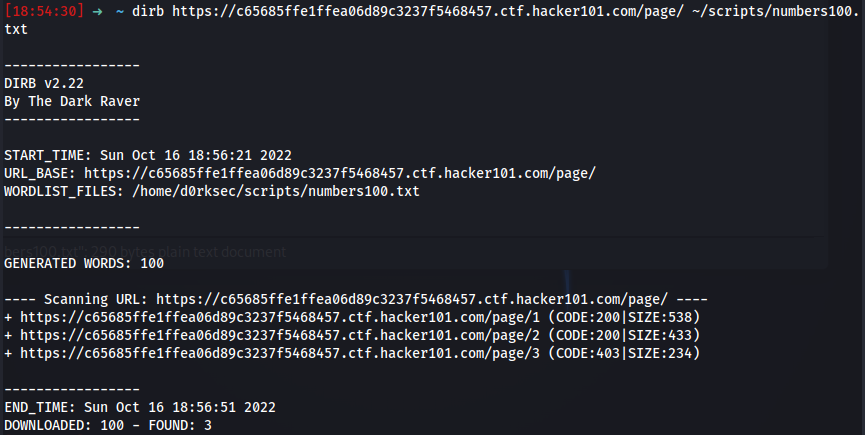
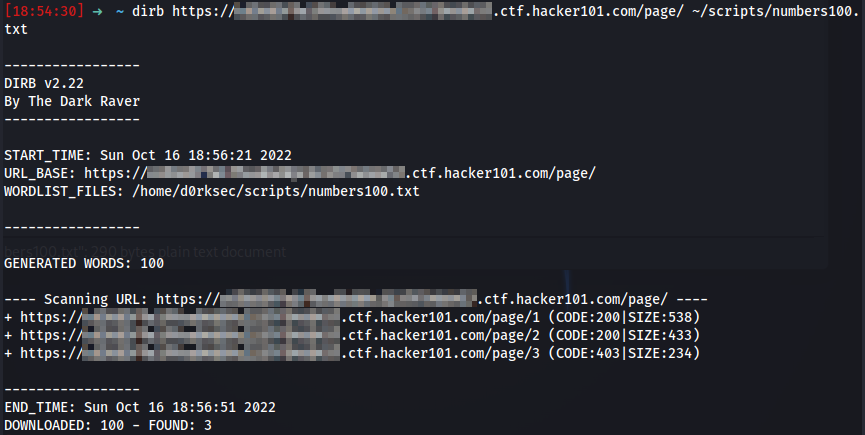
deploy: d0rksec/d0rksec.github.io-dev@13be3a2c0bdf52aeedab951241d5e8d4c2a9b490

Changed region(s): [[0.0936, 0.6575, 0.5618, 0.8368], [0.2497, 0.0, 0.5931, 0.0598], [0.1561, 0.3586, 0.4682, 0.4184]]

diff --git a/writeups/h101/micro-cms_v2/index.html b/writeups/h101/micro-cms_v2/index.html
@@ -1,7 +1,7 @@
 <!doctype html><html lang=en dir=auto><head><meta charset=utf-8><meta http-equiv=x-ua-compatible content="IE=edge"><meta name=viewport content="width=device-width,initial-scale=1,shrink-to-fit=no"><meta name=robots content="index, follow"><title>Hacker101 - Micro CMS_v2 | d0rksec</title><meta name=keywords content="Hacker101,SQL Injection,sqlmap"><meta name=description content="Improved CMS with password authentication"><meta name=author content><link rel=canonical href=https://d0rksec.github.io/writeups/h101/micro-cms_v2/><link crossorigin=anonymous href=/assets/css/stylesheet.aa8a0c4802ee570e352291e58d608e6b99d48ef678aa4be907095a212e60d6e9.css integrity="sha256-qooMSALuVw41IpHljWCOa5nUjvZ4qkvpBwlaIS5g1uk=" rel="preload stylesheet" as=style><script defer crossorigin=anonymous src=/assets/js/highlight.f413e19d0714851f6474e7ee9632408e58ac146fbdbe62747134bea2fa3415e0.js integrity="sha256-9BPhnQcUhR9kdOfuljJAjlisFG+9vmJ0cTS+ovo0FeA=" onload=hljs.initHighlightingOnLoad()></script>
-<link rel=icon href=https://d0rksec.github.io/favicon.ico><link rel=icon type=image/png sizes=16x16 href=https://d0rksec.github.io/favicon-16x16.png><link rel=icon type=image/png sizes=32x32 href=https://d0rksec.github.io/favicon-32x32.png><link rel=apple-touch-icon href=https://d0rksec.github.io/apple-touch-icon.png><link rel=mask-icon href=https://d0rksec.github.io/safari-pinned-tab.svg><meta name=theme-color content="#2e2e33"><meta name=msapplication-TileColor content="#2e2e33"><noscript><style>#theme-toggle,.top-link{display:none}</style></noscript><meta property="og:title" content="Hacker101 - Micro CMS_v2"><meta property="og:description" content="Improved CMS with password authentication"><meta property="og:type" content="article"><meta property="og:url" content="https://d0rksec.github.io/writeups/h101/micro-cms_v2/"><meta property="article:section" content="writeups"><meta property="article:published_time" content="2022-10-16T17:04:39+02:00"><meta property="article:modified_time" content="2022-10-16T17:04:39+02:00"><meta name=twitter:card content="summary"><meta name=twitter:title content="Hacker101 - Micro CMS_v2"><meta name=twitter:description content="Improved CMS with password authentication"><script type=application/ld+json>{"@context":"https://schema.org","@type":"BreadcrumbList","itemListElement":[{"@type":"ListItem","position":1,"name":"Writeups","item":"https://d0rksec.github.io/writeups/"},{"@type":"ListItem","position":2,"name":"Hacker101","item":"https://d0rksec.github.io/writeups/h101/"},{"@type":"ListItem","position":3,"name":"Hacker101 - Micro CMS_v2","item":"https://d0rksec.github.io/writeups/h101/micro-cms_v2/"}]}</script><script type=application/ld+json>{"@context":"https://schema.org","@type":"BlogPosting","headline":"Hacker101 - Micro CMS_v2","name":"Hacker101 - Micro CMS_v2","description":"Improved CMS with password authentication","keywords":["Hacker101","SQL Injection","sqlmap"],"articleBody":"What A CMS with Python backend, prone for SQL injection.\nDifficulty: Moderate\nFlag0 Hint0: Regular users can only see public pages Start with wandering around the site, visiting all available pages to feed site map in Burp.\nAs we can see on Changelog page (/page/1), user authentication has been implemented, so by default, only admins can add or edit pages.\nAs a regular user, we can visit (load without authenticating on /login) the following pages:\n/home /login /page/1 /page/2 Can’t hurt, if we run gobuster and dirb too, right? Only /logout found by both in addition to what we had before.\ngobuster dir -u https://c65685ffe1ffea06d89c3237f5468457.ctf.hacker101.com/ -w /usr/share/wordlists/dirbuster/directory-list-lowercase-2.3-small.txt -z -t 100 Let’s run dirb too.\ndirb https://c65685ffe1ffea06d89c3237f5468457.ctf.hacker101.com/ It made me a bit upset that dirb did not found anything under /page, so I quickly modified my wordlist-generator script (used in Postbook) to create an index list [1-100]. Running dirb with this wordlist on /page, revealed /page/3 which is Forbidden.\ndirb https://c65685ffe1ffea06d89c3237f5468457.ctf.hacker101.com/page/ ~/scripts/numbers100.txt Hint1: Getting admin access might require a more perfect union The hint tells us that the login page is vulnerable for SQL Injection. Starting with a basic payload (') in Username field generated an error message.\nTraceback (most recent call last): File \"./main.py\", line 145, in do_login if cur.execute('SELECT password FROM admins WHERE username=\\'%s\\'' % request.form['username'].replace('%', '%%')) == 0: File \"/usr/local/lib/python2.7/site-packages/MySQLdb/cursors.py\", line 255, in execute self.errorhandler(self, exc, value) File \"/usr/local/lib/python2.7/site-packages/MySQLdb/connections.py\", line 50, in defaulterrorhandler raise errorvalue ProgrammingError: (1064, \"You have an error in your SQL syntax; check the manual that corresponds to your MariaDB server version for the right syntax to use near ';'' at line 1\") Bad practice, if clients can see the error message details due to error reporting is active on a live page. For us, it suggests that we’re facing with a MySQL database server in the backend.\nHere you can see a complete list of payloads to be used against MySQL database.\nFollowing the hint, we should focus on Union Based section of the page. Few documents worth a look before continuing:\nthis gem from PortSwigger, Invicti's SQL Injection Cheat Sheet, Advanced SQL Injection: Union based from VK9 Security, Let’s determine how many columns are being returned from the original query with\n' order by 1;\n' order by 2;\n' order by 3;\nThe first query results an “Unknown user” message, the others end up with error details. We need only one column.\nIf we try with\n' union select null;\n' union select null,null; ' union select null,null,null;\nas Name, we can see, that the first union query throws an “Invalid password”, the others give us the error details.\nLook at the error message again. The query behind the scenes is\nSELECT password FROM admins WHERE username='[username field]' AND password='[password field]'\nOur Union-based payload will replace the second part of the original query, from the username’s closing ', something like this:\nSELECT password FROM admins WHERE username=' [payload]\nAs we need only one column, let’s set a fix value for password that we will provide in the password field (no username needed):\nSELECT password FROM admins WHERE username=’ ' UNION SELECT '123' AS password#\nUsername: ' UNION SELECT '123' AS password# #you don’t need uppercase letters..\nPassword: 123\nHere you can see a more detailed answer on why/how above query works.\nIf you catch the request in Burp, you’ll see this:\nusername=%27+union+select+%27123%27+as+password%23\u0026password=123 Fantastic, we’re in:\nHint2: Knowing the password is cool, but there are other approaches that might be easier After logon, an additional page is added to the links: /page/3, which was forbidden before.\nThe page reveals the first FLAG.\nAlternatively, we can also reveal this FLAG with sqlmap, when fetching pages table:\nsqlmap -r ~/h101/micro-cms_v2/login.txt -D level2 -T pages --dump --random-agent --threads 10 See more details for sqlmap in Flag2.\nFlag1 Hint0: What actions could you perform as a regular user on the last level, which you can’t now? We were able to create and edit pages. On this level, we have to logon first.\nHint1: Just because request fails with one method doesn’t mean it will fail with a different method When it comes to changing request method, our usual friends will be Burp and cURL.\nWith Burp, we can intercept the request and replace GET with POST.\ncURL’s default request method is (also) GET. We can change request method to POST with -X POST.\nHint2: Different requests often have different required authorization Burp (intercept the request):\ncURL:\nChange the request method from GET to POST.\nBurp:\nAnother FLAG.\ncURL:\nFlag2 Hint0: Credentials are secret, flags are secret. Coincidence? We already know that the login fields are vulnerable for injection, but an SQLi challenge wouldn’t be complete without using sqlmap - also, there is much to learn even from it’s output.\nFirst, I’ve saved the GET request with Burp Intercept as login.txt (username=user and password=pass).\nLet’s see how sqlmap is listing databases.\nsqlmap -r ~/h101/micro-cms_v2/login.txt --dbs --random-agent --threads 10 We have the database name (level2), now get the tables with:\nsqlmap -r ~/h101/micro-cms_v2/login.txt -D level2 --tables --random-agent --threads 10 Let’s dump admins table.\nsqlmap -r ~/h101/micro-cms_v2/login.txt -D level2 -T admins --dump --random-agent --threads 10 Using the credentials above for login, we see the third FLAG.\nTakeaway(s) Use “Incorrect username and/or password” instead revealing which of the two fields has invalid value Try changing request method between GET and POST Don’t rely on automated tools, understand what they are doing Experience with different tools for the same task ","wordCount":"908","inLanguage":"en","datePublished":"2022-10-16T17:04:39+02:00","dateModified":"2022-10-16T17:04:39+02:00","mainEntityOfPage":{"@type":"WebPage","@id":"https://d0rksec.github.io/writeups/h101/micro-cms_v2/"},"publisher":{"@type":"Organization","name":"d0rksec","logo":{"@type":"ImageObject","url":"https://d0rksec.github.io/favicon.ico"}}}</script></head><body class=dark id=top><script>localStorage.getItem("pref-theme")==="light"&&document.body.classList.remove("dark")</script><header class=header><nav class=nav><div class=logo><a href=https://d0rksec.github.io/ accesskey=h title="d0rksec (Alt + H)">d0rksec</a><div class=logo-switches><button id=theme-toggle accesskey=t title="(Alt + T)"><svg id="moon" xmlns="http://www.w3.org/2000/svg" width="24" height="24" viewBox="0 0 24 24" fill="none" stroke="currentcolor" stroke-width="2" stroke-linecap="round" stroke-linejoin="round"><path d="M21 12.79A9 9 0 1111.21 3 7 7 0 0021 12.79z"/></svg><svg id="sun" xmlns="http://www.w3.org/2000/svg" width="24" height="24" viewBox="0 0 24 24" fill="none" stroke="currentcolor" stroke-width="2" stroke-linecap="round" stroke-linejoin="round"><circle cx="12" cy="12" r="5"/><line x1="12" y1="1" x2="12" y2="3"/><line x1="12" y1="21" x2="12" y2="23"/><line x1="4.22" y1="4.22" x2="5.64" y2="5.64"/><line x1="18.36" y1="18.36" x2="19.78" y2="19.78"/><line x1="1" y1="12" x2="3" y2="12"/><line x1="21" y1="12" x2="23" y2="12"/><line x1="4.22" y1="19.78" x2="5.64" y2="18.36"/><line x1="18.36" y1="5.64" x2="19.78" y2="4.22"/></svg></button></div></div><ul id=menu><li><a href=https://d0rksec.github.io/categories/ title=categories><span>categories</span></a></li><li><a href=https://d0rksec.github.io/tags/ title=tags><span>tags</span></a></li><li><a href=https://d0rksec.github.io/search/ title="search (Alt + /)" accesskey=/><span>search</span></a></li><li><a href=https://d0rksec.github.io/archives/ title=archives><span>archives</span></a></li><li><a href=https://d0rksec.github.io/about title=about><span>about</span></a></li></ul></nav></header><main class=main><article class=post-single><header class=post-header><div class=breadcrumbs><a href=https://d0rksec.github.io/>Home</a>&nbsp;»&nbsp;<a href=https://d0rksec.github.io/writeups/>Writeups</a>&nbsp;»&nbsp;<a href=https://d0rksec.github.io/writeups/h101/>Hacker101</a></div><h1 class=post-title>Hacker101 - Micro CMS_v2</h1><div class=post-meta><span title='2022-10-16 17:04:39 +0200 +0200'>October 16, 2022</span>&nbsp;·&nbsp;5 min</div></header><div class=toc><details><summary accesskey=c title="(Alt + C)"><span class=details>On this page</span></summary><div class=inner><ul><li><a href=#what aria-label=What>What</a></li><li><a href=#flag0 aria-label=Flag0>Flag0</a><ul><li><a href=#hint0-regular-users-can-only-see-public-pages aria-label="Hint0: Regular users can only see public pages">Hint0: Regular users can only see public pages</a></li><li><a href=#hint1-getting-admin-access-might-require-a-more-perfect-union aria-label="Hint1: Getting admin access might require a more perfect union">Hint1: Getting admin access might require a more perfect union</a></li><li><a href=#hint2-knowing-the-password-is-cool-but-there-are-other-approaches-that-might-be-easier aria-label="Hint2: Knowing the password is cool, but there are other approaches that might be easier">Hint2: Knowing the password is cool, but there are other approaches that might be easier</a></li></ul></li><li><a href=#flag1 aria-label=Flag1>Flag1</a><ul><li><a href=#hint0-what-actions-could-you-perform-as-a-regular-user-on-the-last-level-which-you-cant-now aria-label="Hint0: What actions could you perform as a regular user on the last level, which you can&amp;rsquo;t now?">Hint0: What actions could you perform as a regular user on the last level, which you can&rsquo;t now?</a></li><li><a href=#hint1-just-because-request-fails-with-one-method-doesnt-mean-it-will-fail-with-a-different-method aria-label="Hint1: Just because request fails with one method doesn&amp;rsquo;t mean it will fail with a different method">Hint1: Just because request fails with one method doesn&rsquo;t mean it will fail with a different method</a></li><li><a href=#hint2-different-requests-often-have-different-required-authorization aria-label="Hint2: Different requests often have different required authorization">Hint2: Different requests often have different required authorization</a></li></ul></li><li><a href=#flag2 aria-label=Flag2>Flag2</a><ul><li><a href=#hint0-credentials-are-secret-flags-are-secret-coincidence aria-label="Hint0: Credentials are secret, flags are secret. Coincidence?">Hint0: Credentials are secret, flags are secret. Coincidence?</a></li></ul></li><li><a href=#takeaways aria-label=Takeaway(s)>Takeaway(s)</a></li></ul></div></details></div><div class=post-content><h3 id=what>What<a hidden class=anchor aria-hidden=true href=#what>#</a></h3><p>A CMS with Python backend, prone for SQL injection.</p><p><img loading=lazy src=./Micro-CMS_v2-home.png alt="Miro-CMS v2 Home"></p><p>Difficulty: Moderate</p><h3 id=flag0>Flag0<a hidden class=anchor aria-hidden=true href=#flag0>#</a></h3><h4 id=hint0-regular-users-can-only-see-public-pages>Hint0: Regular users can only see public pages<a hidden class=anchor aria-hidden=true href=#hint0-regular-users-can-only-see-public-pages>#</a></h4><p>Start with wandering around the site, visiting all available pages to feed site map in Burp.</p><p>As we can see on Changelog page (<code>/page/1</code>), user authentication has been implemented, so by default, only admins can add or edit pages.</p><p>As a regular user, we can visit (load without authenticating on <code>/login</code>) the following pages:</p><p><img loading=lazy src=./flag0/Micro-CMS_v2-F0-H0-1-sitemap-regular-user.png alt="sitemap for regular user"></p><ul><li><code>/home</code></li><li><code>/login</code></li><li><code>/page/1</code></li><li><code>/page/2</code></li></ul><p>Can&rsquo;t hurt, if we run gobuster and dirb too, right? Only <code>/logout</code> found by both in addition to what we had before.</p><div class=highlight><pre tabindex=0 style=color:#f8f8f2;background-color:#272822;-moz-tab-size:4;-o-tab-size:4;tab-size:4><code class=language-bash data-lang=bash><span style=display:flex><span>gobuster dir -u https://c65685ffe1ffea06d89c3237f5468457.ctf.hacker101.com/ -w /usr/share/wordlists/dirbuster/directory-list-lowercase-2.3-small.txt -z -t <span style=color:#ae81ff>100</span>
-</span></span></code></pre></div><p><img loading=lazy src=./flag0/Micro-CMS_v2-F0-H0-2-gobuster.png alt=gobuster></p><p>Let&rsquo;s run dirb too.</p><div class=highlight><pre tabindex=0 style=color:#f8f8f2;background-color:#272822;-moz-tab-size:4;-o-tab-size:4;tab-size:4><code class=language-bash data-lang=bash><span style=display:flex><span>dirb https://c65685ffe1ffea06d89c3237f5468457.ctf.hacker101.com/
-</span></span></code></pre></div><p><img loading=lazy src=./flag0/Micro-CMS_v2-F0-H0-3-dirb.png alt=dirb></p><p>It made me a bit upset that dirb did not found anything under <code>/page</code>, so I quickly modified my wordlist-generator script (used in <a href=/writeups/h101/postbook/#hint0-189--5>Postbook</a>) to create an index list [1-100]. Running dirb with this wordlist on <code>/page</code>, revealed <code>/page/3</code> which is Forbidden.</p><div class=highlight><pre tabindex=0 style=color:#f8f8f2;background-color:#272822;-moz-tab-size:4;-o-tab-size:4;tab-size:4><code class=language-bash data-lang=bash><span style=display:flex><span>dirb https://c65685ffe1ffea06d89c3237f5468457.ctf.hacker101.com/page/ ~/scripts/numbers100.txt
+<link rel=icon href=https://d0rksec.github.io/favicon.ico><link rel=icon type=image/png sizes=16x16 href=https://d0rksec.github.io/favicon-16x16.png><link rel=icon type=image/png sizes=32x32 href=https://d0rksec.github.io/favicon-32x32.png><link rel=apple-touch-icon href=https://d0rksec.github.io/apple-touch-icon.png><link rel=mask-icon href=https://d0rksec.github.io/safari-pinned-tab.svg><meta name=theme-color content="#2e2e33"><meta name=msapplication-TileColor content="#2e2e33"><noscript><style>#theme-toggle,.top-link{display:none}</style></noscript><meta property="og:title" content="Hacker101 - Micro CMS_v2"><meta property="og:description" content="Improved CMS with password authentication"><meta property="og:type" content="article"><meta property="og:url" content="https://d0rksec.github.io/writeups/h101/micro-cms_v2/"><meta property="article:section" content="writeups"><meta property="article:published_time" content="2022-10-16T17:04:39+02:00"><meta property="article:modified_time" content="2022-10-16T17:04:39+02:00"><meta name=twitter:card content="summary"><meta name=twitter:title content="Hacker101 - Micro CMS_v2"><meta name=twitter:description content="Improved CMS with password authentication"><script type=application/ld+json>{"@context":"https://schema.org","@type":"BreadcrumbList","itemListElement":[{"@type":"ListItem","position":1,"name":"Writeups","item":"https://d0rksec.github.io/writeups/"},{"@type":"ListItem","position":2,"name":"Hacker101","item":"https://d0rksec.github.io/writeups/h101/"},{"@type":"ListItem","position":3,"name":"Hacker101 - Micro CMS_v2","item":"https://d0rksec.github.io/writeups/h101/micro-cms_v2/"}]}</script><script type=application/ld+json>{"@context":"https://schema.org","@type":"BlogPosting","headline":"Hacker101 - Micro CMS_v2","name":"Hacker101 - Micro CMS_v2","description":"Improved CMS with password authentication","keywords":["Hacker101","SQL Injection","sqlmap"],"articleBody":"What A CMS with Python backend, prone for SQL injection.\nDifficulty: Moderate\nFlag0 Hint0: Regular users can only see public pages Start with wandering around the site, visiting all available pages to feed site map in Burp.\nAs we can see on Changelog page (/page/1), user authentication has been implemented, so by default, only admins can add or edit pages.\nAs a regular user, we can visit (load without authenticating on /login) the following pages:\n/home /login /page/1 /page/2 Can’t hurt, if we run gobuster and dirb too, right? Only /logout found by both in addition to what we had before.\ngobuster dir -u https://IAMSOSORRY.ctf.hacker101.com/ -w /usr/share/wordlists/dirbuster/directory-list-lowercase-2.3-small.txt -z -t 100 Let’s run dirb too.\ndirb https://IAMSOSORRY.ctf.hacker101.com/ It made me a bit upset that dirb did not found anything under /page, so I quickly modified my wordlist-generator script (used in Postbook) to create an index list [1-100]. Running dirb with this wordlist on /page, revealed /page/3 which is Forbidden.\ndirb https://IAMSOSORRY.ctf.hacker101.com/page/ ~/scripts/numbers100.txt Hint1: Getting admin access might require a more perfect union The hint tells us that the login page is vulnerable for SQL Injection. Starting with a basic payload (') in Username field generated an error message.\nTraceback (most recent call last): File \"./main.py\", line 145, in do_login if cur.execute('SELECT password FROM admins WHERE username=\\'%s\\'' % request.form['username'].replace('%', '%%')) == 0: File \"/usr/local/lib/python2.7/site-packages/MySQLdb/cursors.py\", line 255, in execute self.errorhandler(self, exc, value) File \"/usr/local/lib/python2.7/site-packages/MySQLdb/connections.py\", line 50, in defaulterrorhandler raise errorvalue ProgrammingError: (1064, \"You have an error in your SQL syntax; check the manual that corresponds to your MariaDB server version for the right syntax to use near ';'' at line 1\") Bad practice, if clients can see the error message details due to error reporting is active on a live page. For us, it suggests that we’re facing with a MySQL database server in the backend.\nHere you can see a complete list of payloads to be used against MySQL database.\nFollowing the hint, we should focus on Union Based section of the page. Few documents worth a look before continuing:\nthis gem from PortSwigger, Invicti's SQL Injection Cheat Sheet, Advanced SQL Injection: Union based from VK9 Security, Let’s determine how many columns are being returned from the original query with\n' order by 1;\n' order by 2;\n' order by 3;\nThe first query results an “Unknown user” message, the others end up with error details. We need only one column.\nIf we try with\n' union select null;\n' union select null,null; ' union select null,null,null;\nas Name, we can see, that the first union query throws an “Invalid password”, the others give us the error details.\nLook at the error message again. The query behind the scenes is\nSELECT password FROM admins WHERE username='[username field]' AND password='[password field]'\nOur Union-based payload will replace the second part of the original query, from the username’s closing ', something like this:\nSELECT password FROM admins WHERE username=' [payload]\nAs we need only one column, let’s set a fix value for password that we will provide in the password field (no username needed):\nSELECT password FROM admins WHERE username=’ ' UNION SELECT '123' AS password#\nUsername: ' UNION SELECT '123' AS password# #you don’t need uppercase letters..\nPassword: 123\nHere you can see a more detailed answer on why/how above query works.\nIf you catch the request in Burp, you’ll see this:\nusername=%27+union+select+%27123%27+as+password%23\u0026password=123 Fantastic, we’re in:\nHint2: Knowing the password is cool, but there are other approaches that might be easier After logon, an additional page is added to the links: /page/3, which was forbidden before.\nThe page reveals the first FLAG.\nAlternatively, we can also reveal this FLAG with sqlmap, when fetching pages table:\nsqlmap -r ~/h101/micro-cms_v2/login.txt -D level2 -T pages --dump --random-agent --threads 10 See more details for sqlmap in Flag2.\nFlag1 Hint0: What actions could you perform as a regular user on the last level, which you can’t now? We were able to create and edit pages. On this level, we have to logon first.\nHint1: Just because request fails with one method doesn’t mean it will fail with a different method When it comes to changing request method, our usual friends will be Burp and cURL.\nWith Burp, we can intercept the request and replace GET with POST.\ncURL’s default request method is (also) GET. We can change request method to POST with -X POST.\nHint2: Different requests often have different required authorization Burp (intercept the request):\ncURL:\nChange the request method from GET to POST.\nBurp:\nAnother FLAG.\ncURL:\nFlag2 Hint0: Credentials are secret, flags are secret. Coincidence? We already know that the login fields are vulnerable for injection, but an SQLi challenge wouldn’t be complete without using sqlmap - also, there is much to learn even from it’s output.\nFirst, I’ve saved the GET request with Burp Intercept as login.txt (username=user and password=pass).\nLet’s see how sqlmap is listing databases.\nsqlmap -r ~/h101/micro-cms_v2/login.txt --dbs --random-agent --threads 10 We have the database name (level2), now get the tables with:\nsqlmap -r ~/h101/micro-cms_v2/login.txt -D level2 --tables --random-agent --threads 10 Let’s dump admins table.\nsqlmap -r ~/h101/micro-cms_v2/login.txt -D level2 -T admins --dump --random-agent --threads 10 Using the credentials above for login, we see the third FLAG.\nTakeaway(s) Use “Incorrect username and/or password” instead revealing which of the two fields has invalid value Try changing request method between GET and POST Don’t rely on automated tools, understand what they are doing Experience with different tools for the same task ","wordCount":"908","inLanguage":"en","datePublished":"2022-10-16T17:04:39+02:00","dateModified":"2022-10-16T17:04:39+02:00","mainEntityOfPage":{"@type":"WebPage","@id":"https://d0rksec.github.io/writeups/h101/micro-cms_v2/"},"publisher":{"@type":"Organization","name":"d0rksec","logo":{"@type":"ImageObject","url":"https://d0rksec.github.io/favicon.ico"}}}</script></head><body class=dark id=top><script>localStorage.getItem("pref-theme")==="light"&&document.body.classList.remove("dark")</script><header class=header><nav class=nav><div class=logo><a href=https://d0rksec.github.io/ accesskey=h title="d0rksec (Alt + H)">d0rksec</a><div class=logo-switches><button id=theme-toggle accesskey=t title="(Alt + T)"><svg id="moon" xmlns="http://www.w3.org/2000/svg" width="24" height="24" viewBox="0 0 24 24" fill="none" stroke="currentcolor" stroke-width="2" stroke-linecap="round" stroke-linejoin="round"><path d="M21 12.79A9 9 0 1111.21 3 7 7 0 0021 12.79z"/></svg><svg id="sun" xmlns="http://www.w3.org/2000/svg" width="24" height="24" viewBox="0 0 24 24" fill="none" stroke="currentcolor" stroke-width="2" stroke-linecap="round" stroke-linejoin="round"><circle cx="12" cy="12" r="5"/><line x1="12" y1="1" x2="12" y2="3"/><line x1="12" y1="21" x2="12" y2="23"/><line x1="4.22" y1="4.22" x2="5.64" y2="5.64"/><line x1="18.36" y1="18.36" x2="19.78" y2="19.78"/><line x1="1" y1="12" x2="3" y2="12"/><line x1="21" y1="12" x2="23" y2="12"/><line x1="4.22" y1="19.78" x2="5.64" y2="18.36"/><line x1="18.36" y1="5.64" x2="19.78" y2="4.22"/></svg></button></div></div><ul id=menu><li><a href=https://d0rksec.github.io/categories/ title=categories><span>categories</span></a></li><li><a href=https://d0rksec.github.io/tags/ title=tags><span>tags</span></a></li><li><a href=https://d0rksec.github.io/search/ title="search (Alt + /)" accesskey=/><span>search</span></a></li><li><a href=https://d0rksec.github.io/archives/ title=archives><span>archives</span></a></li><li><a href=https://d0rksec.github.io/about title=about><span>about</span></a></li></ul></nav></header><main class=main><article class=post-single><header class=post-header><div class=breadcrumbs><a href=https://d0rksec.github.io/>Home</a>&nbsp;»&nbsp;<a href=https://d0rksec.github.io/writeups/>Writeups</a>&nbsp;»&nbsp;<a href=https://d0rksec.github.io/writeups/h101/>Hacker101</a></div><h1 class=post-title>Hacker101 - Micro CMS_v2</h1><div class=post-meta><span title='2022-10-16 17:04:39 +0200 +0200'>October 16, 2022</span>&nbsp;·&nbsp;5 min</div></header><div class=toc><details><summary accesskey=c title="(Alt + C)"><span class=details>On this page</span></summary><div class=inner><ul><li><a href=#what aria-label=What>What</a></li><li><a href=#flag0 aria-label=Flag0>Flag0</a><ul><li><a href=#hint0-regular-users-can-only-see-public-pages aria-label="Hint0: Regular users can only see public pages">Hint0: Regular users can only see public pages</a></li><li><a href=#hint1-getting-admin-access-might-require-a-more-perfect-union aria-label="Hint1: Getting admin access might require a more perfect union">Hint1: Getting admin access might require a more perfect union</a></li><li><a href=#hint2-knowing-the-password-is-cool-but-there-are-other-approaches-that-might-be-easier aria-label="Hint2: Knowing the password is cool, but there are other approaches that might be easier">Hint2: Knowing the password is cool, but there are other approaches that might be easier</a></li></ul></li><li><a href=#flag1 aria-label=Flag1>Flag1</a><ul><li><a href=#hint0-what-actions-could-you-perform-as-a-regular-user-on-the-last-level-which-you-cant-now aria-label="Hint0: What actions could you perform as a regular user on the last level, which you can&amp;rsquo;t now?">Hint0: What actions could you perform as a regular user on the last level, which you can&rsquo;t now?</a></li><li><a href=#hint1-just-because-request-fails-with-one-method-doesnt-mean-it-will-fail-with-a-different-method aria-label="Hint1: Just because request fails with one method doesn&amp;rsquo;t mean it will fail with a different method">Hint1: Just because request fails with one method doesn&rsquo;t mean it will fail with a different method</a></li><li><a href=#hint2-different-requests-often-have-different-required-authorization aria-label="Hint2: Different requests often have different required authorization">Hint2: Different requests often have different required authorization</a></li></ul></li><li><a href=#flag2 aria-label=Flag2>Flag2</a><ul><li><a href=#hint0-credentials-are-secret-flags-are-secret-coincidence aria-label="Hint0: Credentials are secret, flags are secret. Coincidence?">Hint0: Credentials are secret, flags are secret. Coincidence?</a></li></ul></li><li><a href=#takeaways aria-label=Takeaway(s)>Takeaway(s)</a></li></ul></div></details></div><div class=post-content><h3 id=what>What<a hidden class=anchor aria-hidden=true href=#what>#</a></h3><p>A CMS with Python backend, prone for SQL injection.</p><p><img loading=lazy src=./Micro-CMS_v2-home.png alt="Miro-CMS v2 Home"></p><p>Difficulty: Moderate</p><h3 id=flag0>Flag0<a hidden class=anchor aria-hidden=true href=#flag0>#</a></h3><h4 id=hint0-regular-users-can-only-see-public-pages>Hint0: Regular users can only see public pages<a hidden class=anchor aria-hidden=true href=#hint0-regular-users-can-only-see-public-pages>#</a></h4><p>Start with wandering around the site, visiting all available pages to feed site map in Burp.</p><p>As we can see on Changelog page (<code>/page/1</code>), user authentication has been implemented, so by default, only admins can add or edit pages.</p><p>As a regular user, we can visit (load without authenticating on <code>/login</code>) the following pages:</p><p><img loading=lazy src=./flag0/Micro-CMS_v2-F0-H0-1-sitemap-regular-user.png alt="sitemap for regular user"></p><ul><li><code>/home</code></li><li><code>/login</code></li><li><code>/page/1</code></li><li><code>/page/2</code></li></ul><p>Can&rsquo;t hurt, if we run gobuster and dirb too, right? Only <code>/logout</code> found by both in addition to what we had before.</p><div class=highlight><pre tabindex=0 style=color:#f8f8f2;background-color:#272822;-moz-tab-size:4;-o-tab-size:4;tab-size:4><code class=language-bash data-lang=bash><span style=display:flex><span>gobuster dir -u https://IAMSOSORRY.ctf.hacker101.com/ -w /usr/share/wordlists/dirbuster/directory-list-lowercase-2.3-small.txt -z -t <span style=color:#ae81ff>100</span>
+</span></span></code></pre></div><p><img loading=lazy src=./flag0/Micro-CMS_v2-F0-H0-2-gobuster.png alt=gobuster></p><p>Let&rsquo;s run dirb too.</p><div class=highlight><pre tabindex=0 style=color:#f8f8f2;background-color:#272822;-moz-tab-size:4;-o-tab-size:4;tab-size:4><code class=language-bash data-lang=bash><span style=display:flex><span>dirb https://IAMSOSORRY.ctf.hacker101.com/
+</span></span></code></pre></div><p><img loading=lazy src=./flag0/Micro-CMS_v2-F0-H0-3-dirb.png alt=dirb></p><p>It made me a bit upset that dirb did not found anything under <code>/page</code>, so I quickly modified my wordlist-generator script (used in <a href=/writeups/h101/postbook/#hint0-189--5>Postbook</a>) to create an index list [1-100]. Running dirb with this wordlist on <code>/page</code>, revealed <code>/page/3</code> which is Forbidden.</p><div class=highlight><pre tabindex=0 style=color:#f8f8f2;background-color:#272822;-moz-tab-size:4;-o-tab-size:4;tab-size:4><code class=language-bash data-lang=bash><span style=display:flex><span>dirb https://IAMSOSORRY.ctf.hacker101.com/page/ ~/scripts/numbers100.txt
 </span></span></code></pre></div><p><img loading=lazy src=./flag0/Micro-CMS_v2-F0-H0-4-dirb-with-wordlist.png alt="dirb with wordlist"></p><p><img loading=lazy src=./flag0/Micro-CMS_v2-F0-H0-5-page3-forbidden.png alt="/page/3 forbidden"></p><h4 id=hint1-getting-admin-access-might-require-a-more-perfect-union>Hint1: Getting admin access might require a more perfect union<a hidden class=anchor aria-hidden=true href=#hint1-getting-admin-access-might-require-a-more-perfect-union>#</a></h4><p>The hint tells us that the login page is vulnerable for SQL Injection. Starting with a basic payload (<code>'</code>) in Username field generated an error message.</p><div class=highlight><pre tabindex=0 style=color:#f8f8f2;background-color:#272822;-moz-tab-size:4;-o-tab-size:4;tab-size:4><code class=language-python data-lang=python><span style=display:flex><span>Traceback (most recent call last):
 </span></span><span style=display:flex><span>  File <span style=color:#e6db74>&#34;./main.py&#34;</span>, line <span style=color:#ae81ff>145</span>, <span style=color:#f92672>in</span> do_login
 </span></span><span style=display:flex><span>    <span style=color:#66d9ef>if</span> cur<span style=color:#f92672>.</span>execute(<span style=color:#e6db74>&#39;SELECT password FROM admins WHERE username=</span><span style=color:#ae81ff>\&#39;</span><span style=color:#e6db74>%s</span><span style=color:#ae81ff>\&#39;</span><span style=color:#e6db74>&#39;</span> <span style=color:#f92672>%</span> request<span style=color:#f92672>.</span>form[<span style=color:#e6db74>&#39;username&#39;</span>]<span style=color:#f92672>.</span>replace(<span style=color:#e6db74>&#39;%&#39;</span>, <span style=color:#e6db74>&#39;</span><span style=color:#e6db74>%%</span><span style=color:#e6db74>&#39;</span>)) <span style=color:#f92672>==</span> <span style=color:#ae81ff>0</span>:
